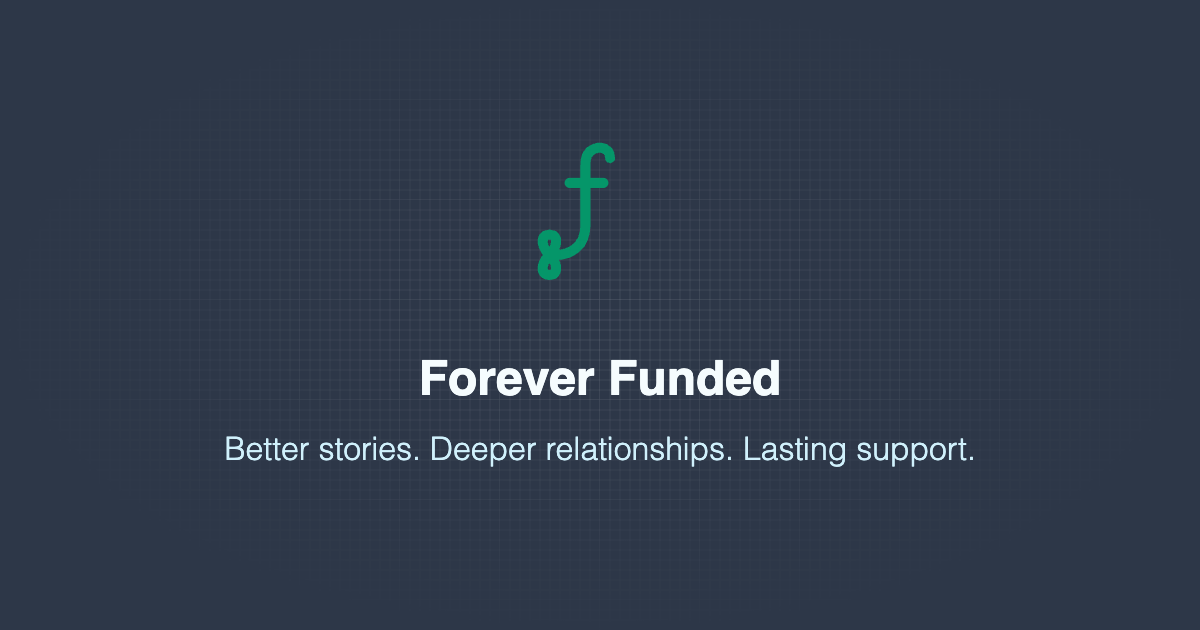
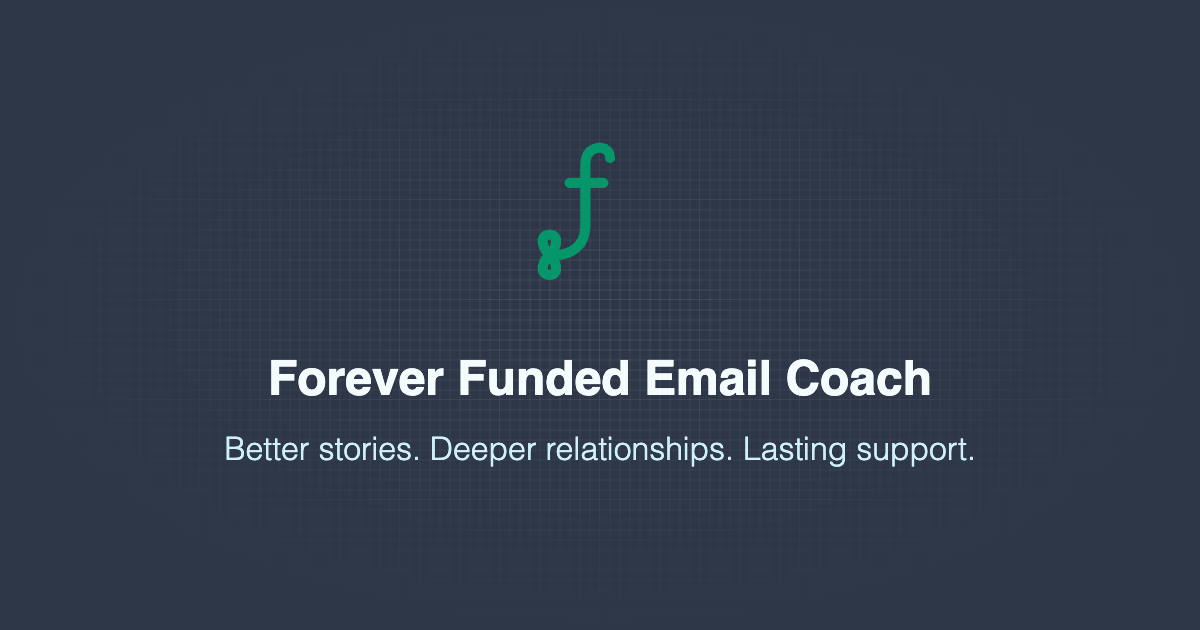
Rewrite hero subtext into separate best-practices/mistakes sentences

Changed region(s): [[0.2158, 0.573, 0.8017, 0.6333]]

diff --git a/Website/src/components/sections/Hero.tsx b/Website/src/components/sections/Hero.tsx
@@ -21,15 +21,18 @@ export function Hero() {
             Stop sweating the <span className="text-primary">send button.</span>
           </h1>
           <p className="mt-5 max-w-xl text-lg leading-relaxed text-muted">
-            Before you send your next update, send it to Coach!
+            Before you send your next supporter update, send it to Coach!
           </p>
           <p className="mt-4 max-w-xl text-pretty text-lg leading-relaxed text-muted">
             Coach checks for{' '}
-            <strong className="font-semibold text-ink">22 best practices</strong> and{' '}
-            <strong className="font-semibold text-ink">26 quiet mistakes</strong> that
-            people in full-time ministry commonly make when emailing supporters. His
-            seasoned feedback will keep your supporters engaged, praying for you, and
-            supporting you for the long haul.
+            <strong className="font-semibold text-ink">22 best practices</strong> that
+            will keep your supporters engaged, praying for you, and supporting you for
+            the long haul.
+          </p>
+          <p className="mt-4 max-w-xl text-pretty text-lg leading-relaxed text-muted">
+            He also checks for{' '}
+            <strong className="font-semibold text-ink">26 common mistakes</strong> that
+            cause supporters to quietly archive your message.
           </p>
           <p className="mt-4 max-w-xl text-lg font-semibold leading-relaxed text-ink">
             Try Coach for free and see what he finds.